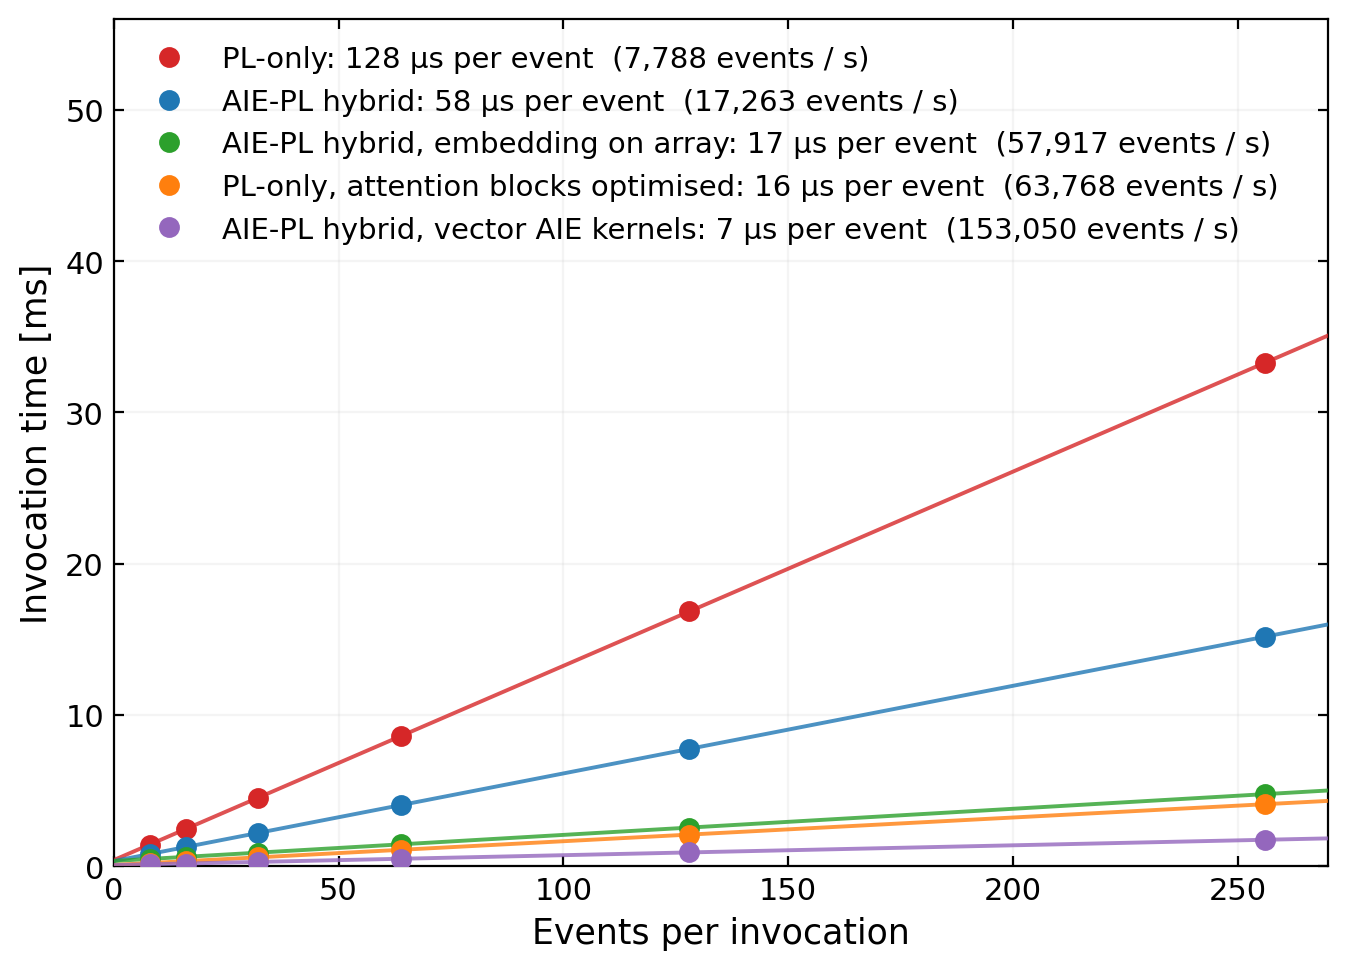
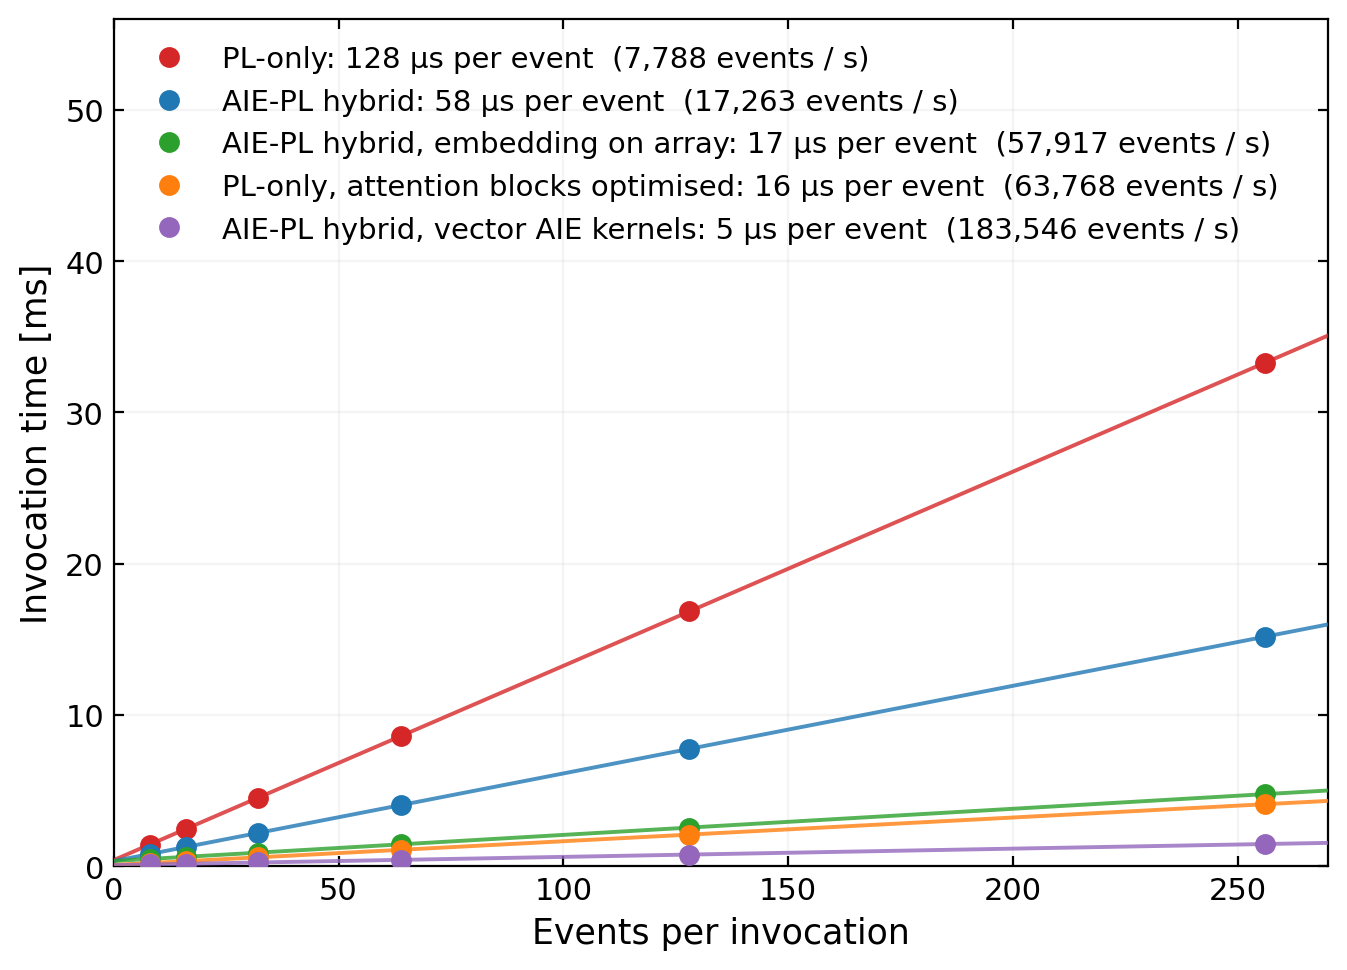
perf: hybrid one event 66 us (52.2 direct), 5.5 us/event, scores identical
The embedding as a three-tile row pipeline and the cross block's keys as a
stream, with the fabric at 125 MHz. Simulation predicted the array at 44.8 us
against 48.9, and the board came in at 52.2 us direct against a 51 us estimate.

diff --git a/scripts/make_latency_and_stage_charts.py b/scripts/make_latency_and_stage_charts.py
@@ -53,7 +53,9 @@ COL = {"PL-only": PL_C, "AIE-PL hybrid": AIE_C, "AIE-PL hybrid, embedding on arr
 #   a vector head gather, one wij port instead of four and a 120 MHz fabric give
 #   9.6 us/event, one event 98 us (77.5 direct). Splitting the last post stage
 #   and streaming the softmax rows then give 6.5 us/event, one event 76 us
-#   (55.7 direct). Scores identical throughout.
+#   (55.7 direct). A three-tile embedding pipeline and the cross block's keys as
+#   a stream give 5.5 us/event, one event 66 us (52.2 direct), with the fabric
+#   at 125 MHz. Scores identical throughout.
 #   AUC 0.9825 / 0.9825.
 def _csv(path, kernel):
     pts = []
@@ -63,7 +65,7 @@ def _csv(path, kernel):
     return pts
 _F = "/home/snehadri/repos/aie-unsupervised-search/figs/"
 SWEEP["PL-only, attention blocks optimised"] = _csv(_F + "latency_sweep_pl_t2k.csv", "pl_stream_top")
-SWEEP["AIE-PL hybrid, vector AIE kernels"] = _csv(_F + "latency_sweep_hybrid_v3x.csv", "aie_stream_top")
+SWEEP["AIE-PL hybrid, vector AIE kernels"] = _csv(_F + "latency_sweep_hybrid_v4.csv", "aie_stream_top")
 NMIN = 8
 
 # ---- (b),(c) per-stage costs, SAME rows in both panels ------------------------
@@ -87,9 +89,9 @@ NMIN = 8
 #     slowest kernel of each block from the aiesimulator profile (the block's
 #     interval; figs/aie_obj_block_profile.txt), which predicted the board
 #     within 6% in every earlier check. Both clocks are exactly 100 MHz.
-PL_CLK, HYB_CLK = 156.25e6, 120e6   # fabric-only at 156.25 MHz (t2k), the hybrid fabric at 120
-AIE = {"Object attention": 5.3, "Candidate attention": 1.6, "Cross attention": 3.2}
-EMBED_AIE_SIM = 7.2   # embed_mlp, aiesimulator, 8,998 cycles/event
+PL_CLK, HYB_CLK = 156.25e6, 125e6   # fabric-only at 156.25 MHz (t2k), the hybrid fabric at 125
+AIE = {"Object attention": 4.5, "Candidate attention": 1.6, "Cross attention": 2.7}
+EMBED_AIE_SIM = 3.4   # embed_mlp as three tiles passing four rows at a time
 cyc = lambda c, clk: c / clk * 1e6
 cycpl = lambda c: c / PL_CLK * 1e6
 # rows: (label, PL-only us, hybrid PL-side us, hybrid AIE us)
